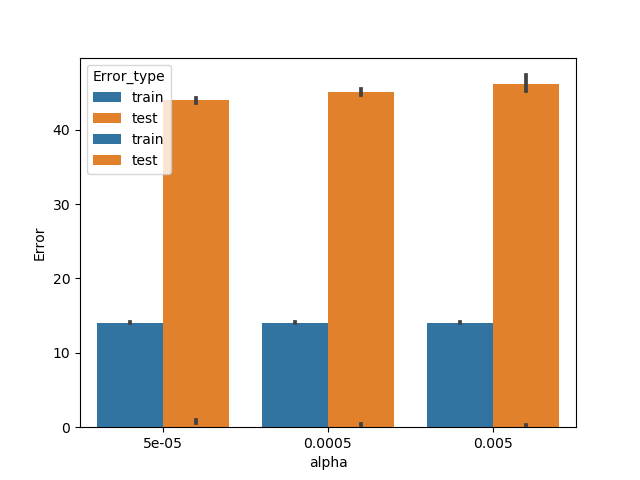
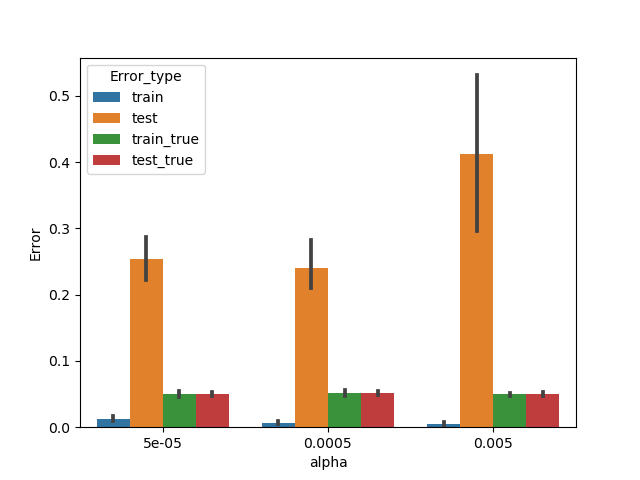
finished part 2

diff --git a/Miniproject_3/part_2.py b/Miniproject_3/part_2.py
@@ -63,11 +63,8 @@ plt.savefig('figs/miniproject3.part2.b.png')
 plt.clf()
 
 # part c
-def error(X,a,y):
-    return np.square(np.linalg.norm(X.dot(a)-y))
-
 def error_gradient(X,a,y):
-    return 2*(X.dot(a)-y)*X
+    return (2*(X.dot(a)-y)*X).reshape(-1,1)
 
 def sgd(a_guess, X, y, alpha, n=train_n, n_iter=1000000):
     a_hat = a_guess
@@ -77,7 +74,7 @@ def sgd(a_guess, X, y, alpha, n=train_n, n_iter=1000000):
         y_i = y[idx]
         grad = error_gradient(x_i, a_hat, y_i)
         # before = error(x_i,a_hat,y_i)
-        a_hat -= alpha * grad
+        a_hat = a_hat - alpha * grad
         # after = error(x_i,a_hat,y_i)
         # assert before > after
     return a_hat
@@ -89,14 +86,14 @@ data = []
 for alpha in alphas:
     for _ in range(n_trials):
         X_train, a_true, y_train, X_test, y_test = generate_data()
-        a_guess = np.zeros(d)
-        a_hat = sgd(a_guess, X_train, y_train, alpha, n=train_n)
+        a_guess = np.zeros((d,1))
+        a_hat = sgd(a_guess, X_train, y_train, alpha)
         train_err, test_err = normalized_error(X_train,a_hat,y_train), normalized_error(X_test,a_hat,y_test)
-        # train_err_true, test_err_true = normalized_error(X_train,a_true,y_train), normalized_error(X_test,a_true,y_test)
+        train_err_true, test_err_true = normalized_error(X_train,a_true,y_train), normalized_error(X_test,a_true,y_test)
         data.append({'alpha':alpha,'Error':train_err,'Error_type':'train'})
         data.append({'alpha':alpha,'Error':test_err,'Error_type':'test'})
-#         data.append({'alpha':alpha,'Error':train_err_true,'Error_type':'train_true'})
-#         data.append({'alpha':alpha,'Error':test_err_true,'Error_type':'test_true'})
+        data.append({'alpha':alpha,'Error':train_err_true,'Error_type':'train_true'})
+        data.append({'alpha':alpha,'Error':test_err_true,'Error_type':'test_true'})
 
 df = pd.DataFrame(data)
 sns.barplot(data=df,x='alpha',y='Error',hue='Error_type')
@@ -104,5 +101,70 @@ plt.savefig('figs/miniproject3.part2.c.png')
 plt.clf()
 
 # part d
+def augmented_sgd(a_guess, X, y, alpha, n=train_n, n_iter=1000000, sampling_rate=100):
+    a_hat = a_guess
+    a_arr = np.zeros((a_guess.size, int(n_iter/sampling_rate)))
+    for i in range(n_iter):
+        idx = np.random.randint(n)
+        x_i = X[idx]
+        y_i = y[idx]
+        grad = error_gradient(x_i, a_hat, y_i)
+        a_hat = a_hat - alpha * grad
+        if i % sampling_rate == 0:
+            a_arr[:,int(i/sampling_rate)] = a_hat.reshape(-1)
+    return a_hat, a_arr
+
+alphas = [0.00005, 0.005]
+data = []
+sr = 100
+n_iter = 1000000
+
+fig, axs = plt.subplots(3,2, figsize=(7,7))
+
+for idx, alpha in enumerate(alphas):
+    X_train, a_true, y_train, X_test, y_test = generate_data()
+    a_guess = np.zeros((d,1))
+    a_hat, a_arr = augmented_sgd(a_guess, X_train, y_train, alpha, n_iter=n_iter, sampling_rate=sr)
+    axs[0,idx].plot(range(n_iter//sr),[normalized_error(X_train,a_arr[:,i].reshape(-1,1),y_train) for i in range(n_iter//sr)])
+    axs[0,idx].axhline(normalized_error(X_train,a_true,y_train), ls='--')
+    if idx == 0:
+        axs[0,idx].set_ylabel('Normalized training error')
+    axs[0,idx].set_title(alpha)
+    axs[1,idx].plot(range(n_iter//sr),[normalized_error(X_test,a_arr[:,i].reshape(-1,1),y_test) for i in range(n_iter//sr)])
+    axs[1,idx].axhline(normalized_error(X_test,a_true,y_test), ls='--')
+    if idx == 0:
+        axs[1,idx].set_ylabel('Normalized test error')
+    axs[2,idx].plot(range(n_iter//sr),[np.linalg.norm(a_arr[:,i].reshape(-1,1)) for i in range(n_iter//sr)])
+    axs[2,idx].set_xlabel('Iteration (x {})'.format(sr))
+    if idx == 0:
+        axs[2,idx].set_ylabel('Norm(a)')
+
+plt.savefig('figs/miniproject3.part2.d.png')
+plt.clf()
+
+# part e
+def sample_from_unit_ball(r, d=d):
+    v = np.random.normal(0,1,size=(d,1))
+    return v / np.linalg.norm(v) * r
+
+alpha = 0.00005
+rs = [0, 0.1, 0.5, 1, 10, 20, 30]
+n_trials = 10
+
+data = []
+
+for r in rs:
+    for _ in range(n_trials):
+        X_train, a_true, y_train, X_test, y_test = generate_data()
+        a_guess = sample_from_unit_ball(r)
+        a_hat = sgd(a_guess, X_train, y_train, alpha)
+        train_err, test_err = normalized_error(X_train,a_hat,y_train), normalized_error(X_test,a_hat,y_test)
+        data.append({'r':r,'Error':train_err,'Error_type':'train'})
+        data.append({'r':r,'Error':test_err,'Error_type':'test'})
+
+df = pd.DataFrame(data)
+sns.barplot(data=df,x='r',y='Error',hue='Error_type')
+plt.savefig('figs/miniproject3.part2.e.png')
+plt.clf()
 
 
